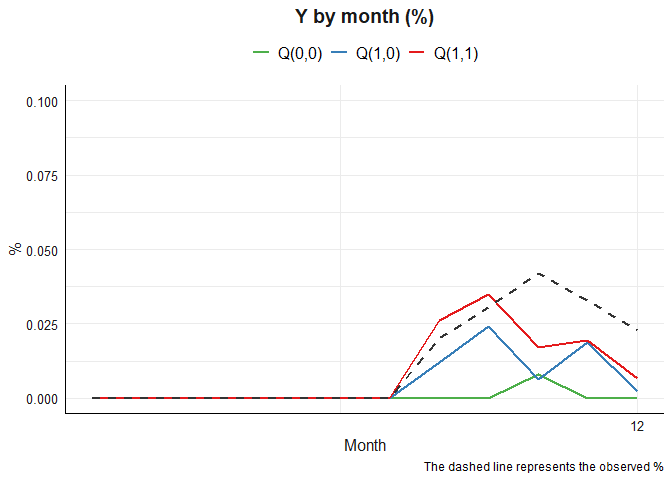
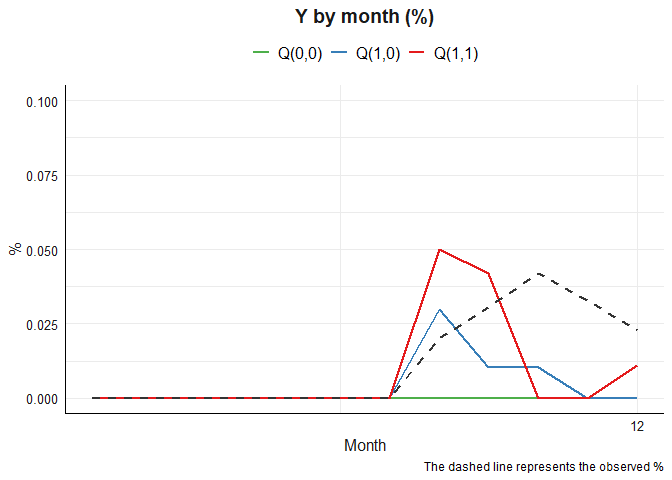
update tutorial

diff --git a/docs/index.html b/docs/index.html
@@ -66,7 +66,7 @@
 <span><span class="fu">devtools</span><span class="fu">::</span><span class="fu"><a href="https://remotes.r-lib.org/reference/install_github.html" class="external-link">install_github</a></span><span class="op">(</span><span class="st">"causalepi/tvmedg"</span><span class="op">)</span></span></code></pre></div>
 </div>
 <div class="section level2">
-<h2 id="tutorial">Tutorial<a class="anchor" aria-label="anchor" href="#tutorial"></a>
+<h2 id="demo">Demo<a class="anchor" aria-label="anchor" href="#demo"></a>
 </h2>
 <div class="sourceCode" id="cb2"><pre class="downlit sourceCode r">
 <code class="sourceCode R"><span><span class="kw"><a href="https://rdrr.io/r/base/library.html" class="external-link">library</a></span><span class="op">(</span><span class="va"><a href="https://causalepi.github.io/tvmedg/">tvmedg</a></span><span class="op">)</span></span></code></pre></div>
@@ -110,16 +110,16 @@
 <span>             mreg <span class="op">=</span> <span class="st">"binomial"</span>,</span>
 <span>             lreg <span class="op">=</span> <span class="fu"><a href="https://rdrr.io/r/base/c.html" class="external-link">c</a></span><span class="op">(</span><span class="st">"binomial"</span>,<span class="st">"gaussian"</span>,<span class="st">"gaussian"</span><span class="op">)</span>,</span>
 <span>             yreg <span class="op">=</span> <span class="st">"binomial"</span>,dof <span class="op">=</span> <span class="fl">3</span>,</span>
-<span>             montecarlo <span class="op">=</span> <span class="fl">500</span>,length <span class="op">=</span> <span class="fl">12</span>,</span>
-<span>             parallel<span class="op">=</span><span class="cn">TRUE</span>,nboot <span class="op">=</span> <span class="fl">5</span>,ci<span class="op">=</span><span class="fl">.95</span><span class="op">)</span></span>
-<span><span class="co">#&gt; Q(1,1): 0.1 (0.102,0.921) </span></span>
-<span><span class="co">#&gt; Q(1,0): 0.062 (0.002,0.921) </span></span>
-<span><span class="co">#&gt; Q(0,0): 0.008 (0,0.04) </span></span>
-<span><span class="co">#&gt; Indirect: 0.038 (-0.014,0.175) </span></span>
-<span><span class="co">#&gt; Direct: 0.054 (0,0.917) </span></span>
-<span><span class="co">#&gt; Total: 0.092 (0.1,0.917) </span></span>
-<span><span class="co">#&gt; Proportional explain: 0.413 (-0.104,0.999) </span></span>
-<span><span class="co">#&gt; Total time elapsed: 53.67839 mins</span></span></code></pre></div>
+<span>             montecarlo <span class="op">=</span> <span class="fl">100</span>,length <span class="op">=</span> <span class="fl">12</span>,</span>
+<span>             parallel<span class="op">=</span><span class="cn">TRUE</span>,nboot <span class="op">=</span> <span class="fl">2</span>,ci<span class="op">=</span><span class="fl">.95</span><span class="op">)</span></span>
+<span><span class="co">#&gt; Q(1,1): 0.1 (0.141,0.179) </span></span>
+<span><span class="co">#&gt; Q(1,0): 0.05 (0.017,0.283) </span></span>
+<span><span class="co">#&gt; Q(0,0): 0 (0.007,0.283) </span></span>
+<span><span class="co">#&gt; Indirect: 0.05 (-0.104,0.124) </span></span>
+<span><span class="co">#&gt; Direct: 0.05 (0,0.01) </span></span>
+<span><span class="co">#&gt; Total: 0.1 (-0.104,0.134) </span></span>
+<span><span class="co">#&gt; Proportional explain: 0.5 (0.93,0.998) </span></span>
+<span><span class="co">#&gt; Total time elapsed: 3.308425 mins</span></span></code></pre></div>
 </div>
 <div class="section level3">
 <h3 id="plot">Plot<a class="anchor" aria-label="anchor" href="#plot"></a>

diff --git a/README.md b/README.md
@@ -22,7 +22,7 @@ You can install the development version of tvmedg like so:
 devtools::install_github("causalepi/tvmedg")
 ```
 
-## Tutorial
+## Demo
 
 ``` r
 library(tvmedg)
@@ -44,40 +44,57 @@ head(sim_data)
 ### Run model
 
 ``` r
-# library(doParallel)
-# 
-# cl <- makeCluster(12)
-# registerDoParallel(cl)
+library(doParallel)
+#> Loading required package: foreach
+#> Loading required package: iterators
+#> Loading required package: parallel
 
-# op <- tvmedg(data = sim_data,
-#              fix = c("age","sex","ow","risk"),
-#              expo = c("Ap"),
-#              med = c("Mp"),
-#              tvar = c("L1","L2","L3"),
-#              outc = c("Yp"),
-#              lag = 2,
-#              norev = c("Mp"),
-#              time = c("mm"),
-#              LM = F,
-#              boot = T,
-#              seed = 123,
-#              mreg = "binomial",
-#              lreg = c("binomial","gaussian","gaussian"),
-#              yreg = "binomial",dof = 3,
-#              montecarlo = 1000,length = 12,
-#              parallel=TRUE,nboot = 5,ci=.95)
+cl <- makeCluster(12)
+registerDoParallel(cl)
+
+op <- tvmedg(data = sim_data,
+             fix = c("age","sex","ow","risk"),
+             expo = c("Ap"),
+             med = c("Mp"),
+             tvar = c("L1","L2","L3"),
+             outc = c("Yp"),
+             lag = 2,
+             norev = c("Mp"),
+             time = c("mm"),
+             LM = F,
+             boot = T,
+             seed = 123,
+             mreg = "binomial",
+             lreg = c("binomial","gaussian","gaussian"),
+             yreg = "binomial",dof = 3,
+             montecarlo = 100,length = 12,
+             parallel=TRUE,nboot = 2,ci=.95)
+#> Q(1,1): 0.1 (0.141,0.179) 
+#> Q(1,0): 0.05 (0.017,0.283) 
+#> Q(0,0): 0 (0.007,0.283) 
+#> Indirect: 0.05 (-0.104,0.124) 
+#> Direct: 0.05 (0,0.01) 
+#> Total: 0.1 (-0.104,0.134) 
+#> Proportional explain: 0.5 (0.93,0.998) 
+#> Total time elapsed: 3.308425 mins
 ```
 
 ### Plot
 
 ``` r
-# plot(op,"all")
+plot(op,"all")
 ```
 
-``` r
-# plot(op,"cumY")
-```
+<img src="man/figures/README-unnamed-chunk-5-1.png" width="100%" />
 
 ``` r
-# plot(op,"tvY")
+plot(op,"cumY")
 ```
+
+<img src="man/figures/README-unnamed-chunk-6-1.png" width="100%" />
+
+``` r
+plot(op,"tvY")
+```
+
+<img src="man/figures/README-unnamed-chunk-7-1.png" width="100%" />
